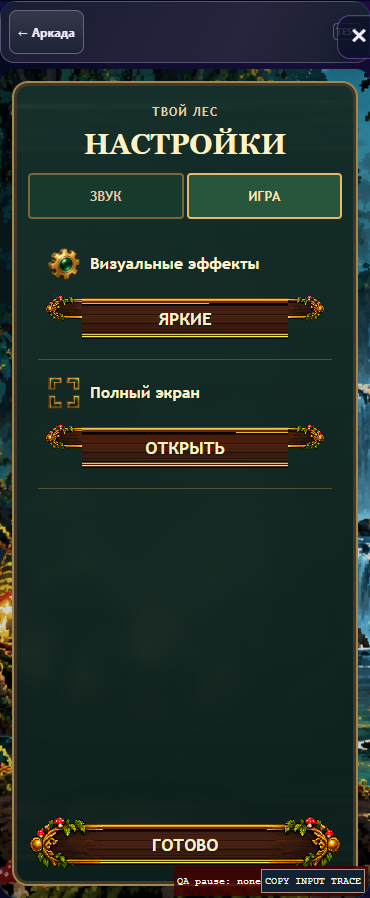
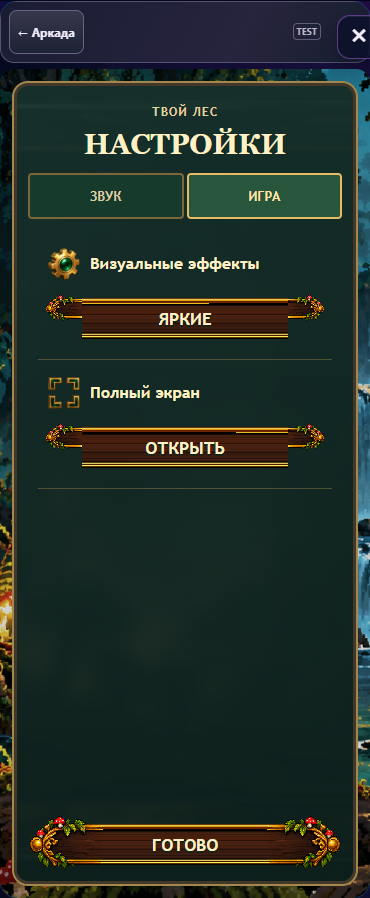
Snake TEST host: reserve portrait close-button safe area

Changed region(s): [[0.4459, 0.9666, 1.0, 0.9978], [0.8027, 0.0312, 0.8622, 0.0624]]

diff --git a/docs/qa/snake-presentation-v5-3-2/host.js b/docs/qa/snake-presentation-v5-3-2/host.js
@@ -5,13 +5,13 @@ async(page,{live=false}={})=>{
   const mobile=width<500,c=await page.context().browser().newContext({viewport:{width,height},isMobile:mobile,hasTouch:mobile}),p=await c.newPage();
   p.on('pageerror',e=>errors.push(e.message));p.on('response',r=>{if(r.status()>=400){if(r.url().includes('/auth/v1/health')&&r.status()===401)baseline.push('existing anonymous host auth health 401');else if(/\/snake\/|\/grib\//.test(r.url()))errors.push(r.status()+' '+r.url());}});p.on('console',m=>{if(m.type()==='error')(m.location().url.includes('/auth/v1/health')?baseline:errors).push(m.text());});
   if(!live)await p.route('**/giveaway-test/**',async r=>{const name=/\/giveaway-test\/([^?]+)/.exec(r.request().url())?.[1];if(!name||name.split('/').includes('..'))return r.abort();const ext=name.split('.').at(-1);await r.fulfill({path:'giveaway-test/'+name,contentType:{html:'text/html',json:'application/json',js:'text/javascript',mjs:'text/javascript',css:'text/css',png:'image/png',ogg:'audio/ogg',wav:'audio/wav'}[ext]||'application/octet-stream',headers:{'Access-Control-Allow-Origin':'*'}});});
-  await p.goto('https://rytni.live/testpodari?arcade_preview=1&progression_preview=1&ttq_preview=1&qa=1');await p.waitForSelector('#rytniProgressionHub',{state:'attached'});await p.locator('#rytni-app-loader').waitFor({state:'detached',timeout:20000});
+  await p.goto('https://rytni.live/testpodari?arcade_preview=1&progression_preview=1&ttq_preview=1');await p.waitForSelector('#rytniProgressionHub',{state:'attached'});await p.locator('#rytni-app-loader').waitFor({state:'detached',timeout:20000});
   await p.evaluate(()=>{let e=document.querySelector('#rytniProgressionHub');while(e&&e!==document.body){e.hidden=false;if(getComputedStyle(e).display==='none')e.style.display='block';e=e.parentElement;}});await p.locator('[data-progression-tab=arcade]').click();
   await p.evaluate(async()=>{await document.fonts.ready;await Promise.all([...document.querySelectorAll('#msHub img')].map(i=>i.decode()));const img=new Image();img.src=/url\("?([^"\)]+)/.exec(getComputedStyle(document.querySelector('#msHub')).backgroundImage)[1];await img.decode();});
   const chooser=await p.locator('#msHub').evaluate(e=>({overflow:e.scrollWidth>e.clientWidth,background:getComputedStyle(e).backgroundImage,cards:[...e.querySelectorAll('.ms-next-card')].map(c=>({height:c.getBoundingClientRect().height,imageHeight:c.querySelector('img').getBoundingClientRect().height,fit:getComputedStyle(c.querySelector('img')).objectFit,buttonY:c.querySelector('button').getBoundingClientRect().y-c.getBoundingClientRect().y}))}));checks++;
   if(chooser.overflow||!chooser.background.includes(expected.snake_runtime.id)||!chooser.background.includes(mobile?'mobile':'desktop')||chooser.cards.some(c=>c.fit!=='cover')||Math.abs(chooser.cards[0].height-chooser.cards[1].height)>1||Math.abs(chooser.cards[0].buttonY-chooser.cards[1].buttonY)>1)failures.push({width,chooser});rows.push({width,chooser});await p.locator('#msHub').screenshot({path:dir+`${tag}-chooser-${width}.png`,scale:'css'});
   await p.locator('[data-ms-action=game-fly]').click();await p.locator('#msFlyWrap .ms-player-header').waitFor();await p.waitForTimeout(700);
-  const fly=await p.evaluate(()=>({header:document.querySelector('#msFlyWrap .ms-player-header').outerHTML,snakeHeader:document.querySelector('#msNextSnake .ms-player-header').outerHTML,old:!!document.querySelector('#msFlyWrap .ms-next-backbar'),noteVisible:getComputedStyle(document.querySelector('#msFlyWrap .rytni-arcade-note')).display!=='none',overflow:document.querySelector('#msFlyWrap').scrollWidth>document.querySelector('#msFlyWrap').clientWidth,unknown:[...document.querySelectorAll('#msFlyWrap [data-player]')].map(e=>({key:e.dataset.player,hidden:e.hidden,text:e.textContent}))}));checks++;if(fly.old||fly.noteVisible||fly.overflow||fly.header!==fly.snakeHeader)failures.push({width,fly});rows.push({width,fly});await p.locator('#msFlyWrap').screenshot({path:dir+`${tag}-fly-${width}.png`,scale:'css'});
+  const fly=await p.evaluate(()=>{const header=document.querySelector('#msFlyWrap .ms-player-header'),b=header.querySelector('.ms-player-test').getBoundingClientRect(),close=document.querySelector('#applicationPopup .application-search-close')?.getBoundingClientRect();return {header:header.outerHTML,snakeHeader:document.querySelector('#msNextSnake .ms-player-header').outerHTML,old:!!document.querySelector('#msFlyWrap .ms-next-backbar'),noteVisible:getComputedStyle(document.querySelector('#msFlyWrap .rytni-arcade-note')).display!=='none',overflow:document.querySelector('#msFlyWrap').scrollWidth>document.querySelector('#msFlyWrap').clientWidth,closeGap:close?.width?close.left-b.right:null,unknown:[...document.querySelectorAll('#msFlyWrap [data-player]')].map(e=>({key:e.dataset.player,hidden:e.hidden,text:e.textContent}))};});checks++;if(fly.old||fly.noteVisible||fly.overflow||fly.header!==fly.snakeHeader||mobile&&fly.closeGap!=null&&fly.closeGap<8)failures.push({width,fly});rows.push({width,fly});await p.locator('#msFlyWrap').screenshot({path:dir+`${tag}-fly-${width}.png`,scale:'css'});
   if(mobile){await p.setViewportSize({width:height,height:width});await p.waitForTimeout(400);checks++;if(await p.locator('#msFlyWrap').evaluate(e=>e.scrollWidth>e.clientWidth))failures.push({width,flyLandscapeOverflow:true});await p.locator('#msFlyWrap').screenshot({path:dir+`${tag}-fly-landscape-${height}.png`,scale:'css'});await p.setViewportSize({width,height});}
   await p.locator('#msFlyWrap [data-ms-action=hub]').click();await p.locator('[data-ms-action=game-snake]').click();await p.waitForFunction(()=>RytniArcadeHub.snakeScreen==='main');const f=p.frames().find(f=>f.url().includes('/snake/product/index.html'));checks++;if(!f.url().includes(expected.snake_runtime.id))failures.push({width,wrongRuntime:f.url()});
   await p.waitForTimeout(650);await p.locator('#msNextSnake').screenshot({path:dir+`${tag}-main-${width}.png`,scale:'css'});

diff --git a/arcade/snake-next/test-host.html b/arcade/snake-next/test-host.html
@@ -22,7 +22,7 @@
 @media(max-width:560px) and (orientation:portrait){.ms-next-stage{aspect-ratio:9/16}}
 /* Dedicated phone header. Wide/desktop ownership remains unchanged. */
 @media(max-width:560px) and (orientation:portrait){
- .ms-player-header{gap:8px;padding:8px;min-height:60px;position:sticky;top:0;z-index:5;margin-bottom:6px}
+ .ms-player-header{gap:8px;padding:8px 48px 8px 8px;min-height:60px;position:sticky;top:0;z-index:5;margin-bottom:6px}
  .ms-player-back{padding:8px;min-width:0;font-size:12px}
  .ms-player-profile{display:grid;grid-template-columns:28px minmax(0,1fr) auto;grid-template-rows:22px 18px;gap:0 5px;font-size:12px}
  .ms-player-profile img{width:28px;height:28px;grid-row:1/3}

diff --git a/docs/qa/snake-presentation-v5-3-2/README.md b/docs/qa/snake-presentation-v5-3-2/README.md
@@ -2,7 +2,7 @@
 
 Base `e750631`, published V5.3.1 release `2.15.33-c77364482deb`, runtime `snake-next-3efbc8cbe51b`.
 
-Candidate: `2.15.33-91d7afeec517` / `snake-next-78436309631c`. Publication evidence is recorded separately in PUBLIC.md after both mirrors and LIVE QA pass.
+Final candidate: `2.15.33-e56b72a011df` / `snake-next-78436309631c`. Publication evidence is recorded separately in PUBLIC.md after both mirrors and LIVE QA pass.
 
 [Visual review](review.html) · [Authored Arcade concepts, inventory and prompts](../arcade-premium-v2/README.md)
 
@@ -13,7 +13,7 @@ Candidate: `2.15.33-91d7afeec517` / `snake-next-78436309631c`. Publication evide
 - **Result artifact:** the settled live metrics wrapper and children are transparent, with no backing pseudo-element. Isolation capture `result-no-png.png` removes the unwanted plates, proving they are baked into the bottoms of `stat-food.png`, `stat-length.png`, `stat-combo.png`. Clip only their old number plaques: lower 20%, 17%, 20% respectively. Complete trophies/bronze pedestals and readable text shadows remain. Approved PNG source bytes and `premium.js` are unchanged. No hero, scene, score or routing redesign.
 - **Main duplicate:** remove only `mainRanking()`'s `.board-own` record/rank paragraph. Player Status Board remains authoritative; full Ranking retains its own summary.
 - **Arcade:** two independent authored PNG backgrounds, translucent navy cards, equal card/cover height and CTA alignment. Original Fly cover and `object-fit:cover` retained. [Art-first gate](../arcade-premium-v2/README.md).
-- **Fly header/footer:** Fly and Snake call the exact same `playerHeader()` component and `refreshPlayer()` data source, using currentApplication and profileAvatar. Refresh targets both mounted headers. Unknown values remain hidden; participant_number is not interpreted as rank. Old outer game-name bar removed. Technical accounting note hidden only by the TEST host's scoped selector; Fly source/gameplay remains byte-identical.
+- **Fly header/footer:** Fly and Snake call the exact same `playerHeader()` component and `refreshPlayer()` data source, using currentApplication and profileAvatar. Refresh targets both mounted headers. Unknown values remain hidden; participant_number is not interpreted as rank. Old outer game-name bar removed. Technical accounting note hidden only by the TEST host's scoped selector; Fly source/gameplay remains byte-identical. LIVE review exposed the parent popup close-button covering the portrait TEST badge; the shared header now reserves a 48px right inset, giving 16px measured clearance from that button for both 390/412 widths. No input/fullscreen/mobile game layout change.
 
 ## Responsive QA
 
